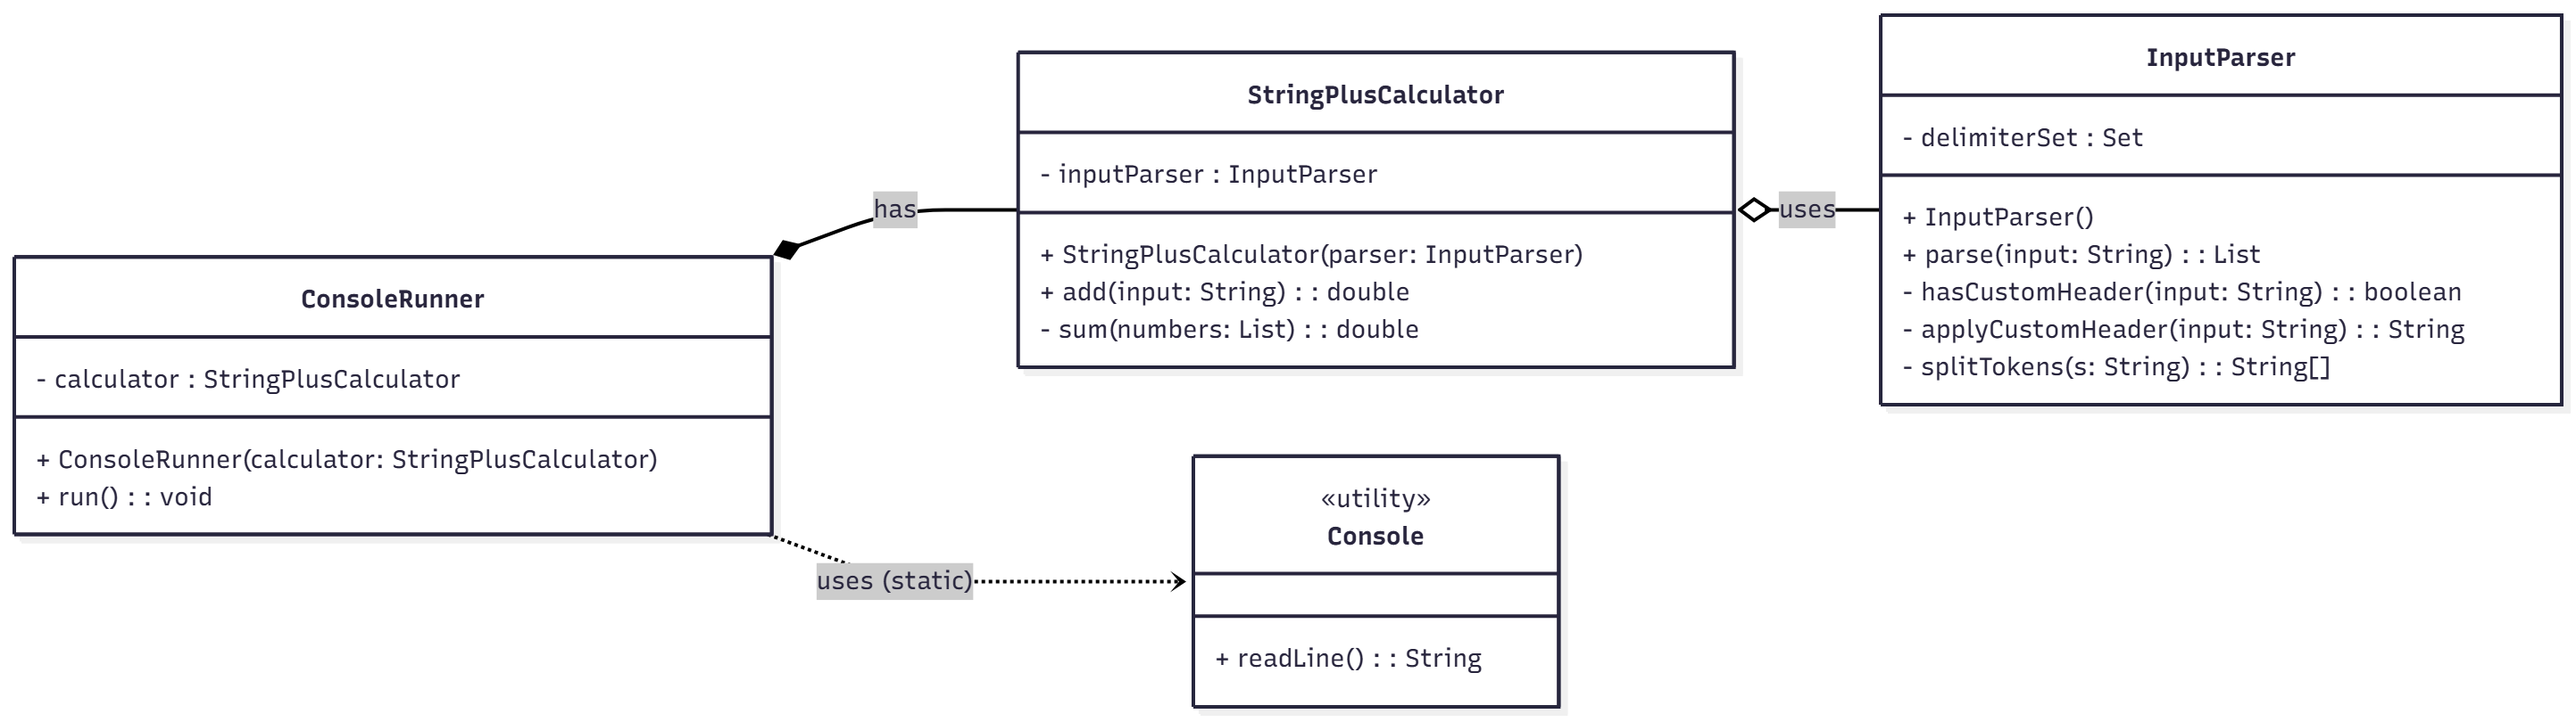
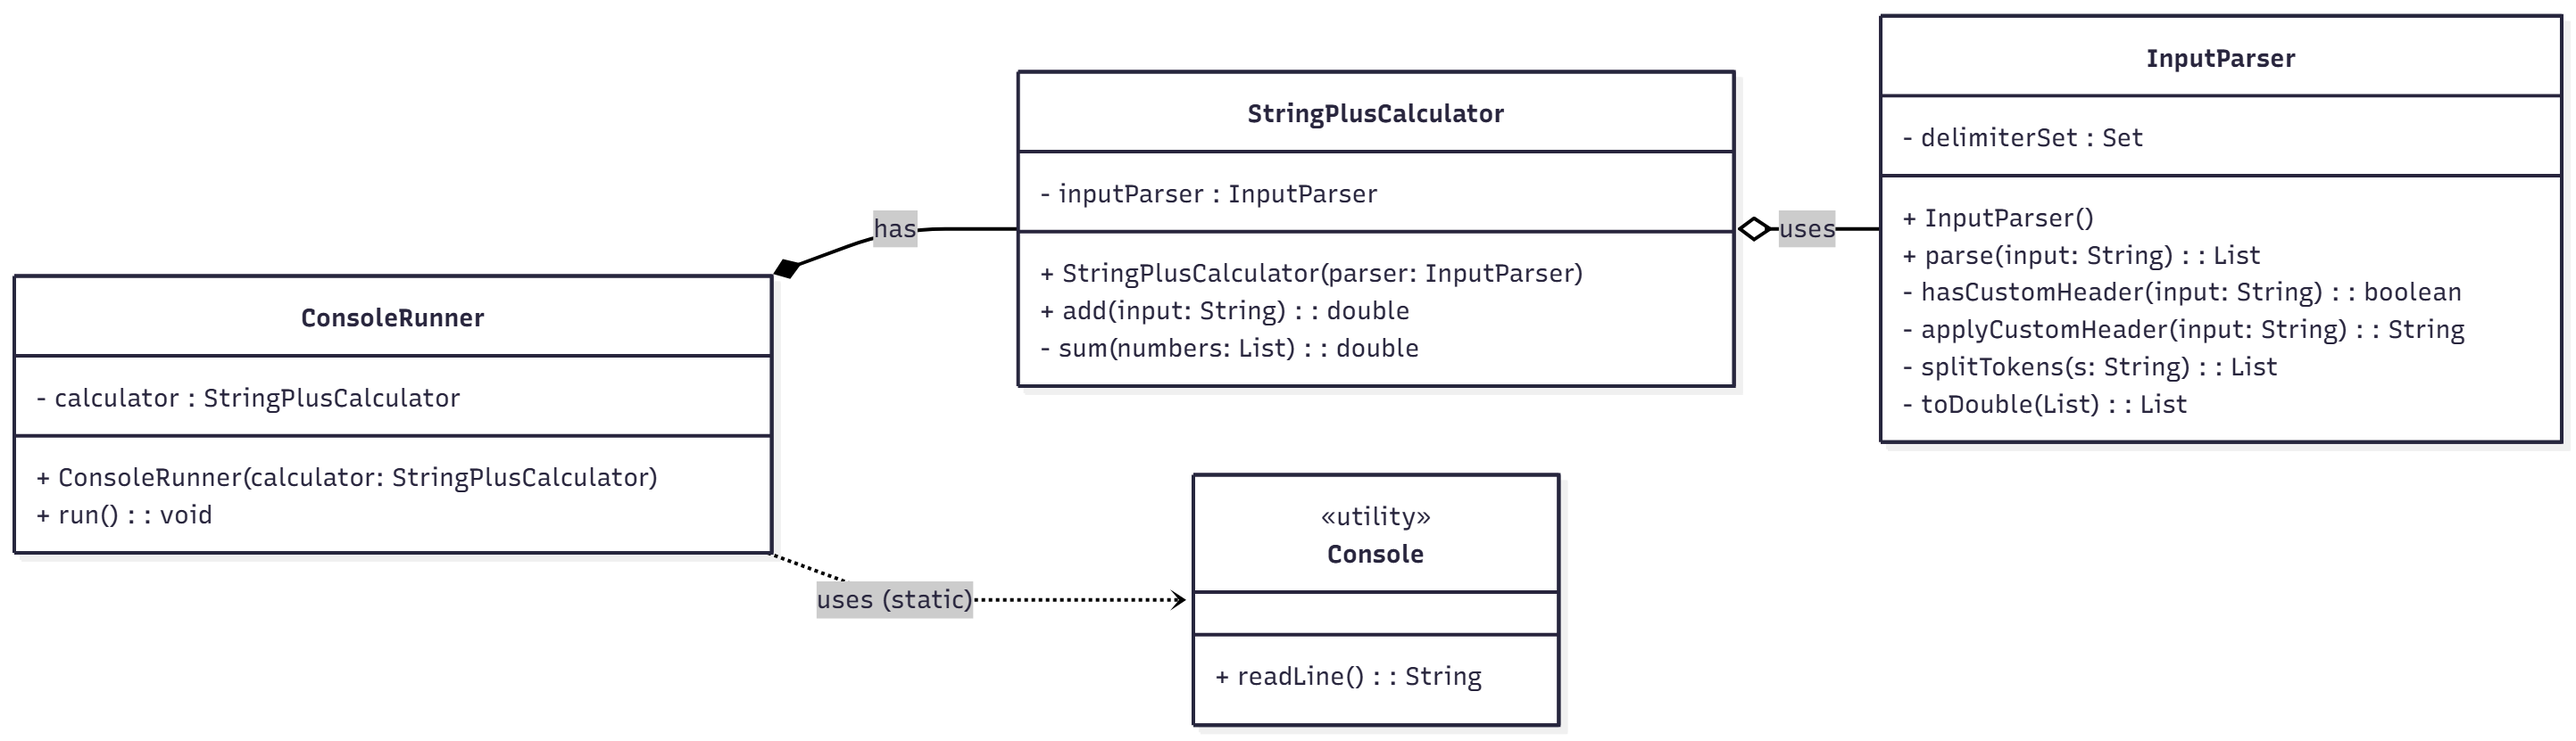
feat(inputparser): add token parsing feature
Using custom and common delimiters the input string is cut into tokens

diff --git a/src/main/java/calculator/InputParser.java b/src/main/java/calculator/InputParser.java
@@ -1,5 +1,6 @@
 package calculator;
 
+import java.util.ArrayList;
 import java.util.HashSet;
 import java.util.List;
 import java.util.Set;
@@ -23,10 +24,12 @@ public class InputParser {
         if (hasCustomHeader(input)) {
             input = applyCustomHeader(input, delimiters);
         }
-        System.out.println(input);
-        System.out.println(delimiters);
+
+        List<String> tokens = splitTokens(input, delimiters);
+
         return List.of(); // 임시 값
     }
+
 
     private boolean hasCustomHeader(String input) {
         if (input.length() >= 5 && input.charAt(0) == '/' && input.charAt(1) == '/'
@@ -39,5 +42,27 @@ public class InputParser {
     private String applyCustomHeader(String input, Set<Character> delimiters) {
         delimiters.add(input.charAt(2));
         return input.substring(5);
+    }
+
+    private List<String> splitTokens(String input, Set<Character> delimiters) {
+        List<String> tokens = new ArrayList<>();
+
+        StringBuilder buffer = new StringBuilder();
+        for (int i = 0; i < input.length(); i++) {
+            char c = input.charAt(i);
+            if (delimiters.contains(c)) {
+                if (!buffer.isEmpty()) {
+                    tokens.add(buffer.toString());
+                    buffer.setLength(0);
+                }
+            } else {
+                buffer.append(c);
+            }
+        }
+        if (!buffer.isEmpty()) {
+            tokens.add(buffer.toString());
+        }
+
+        return tokens;
     }
 }
